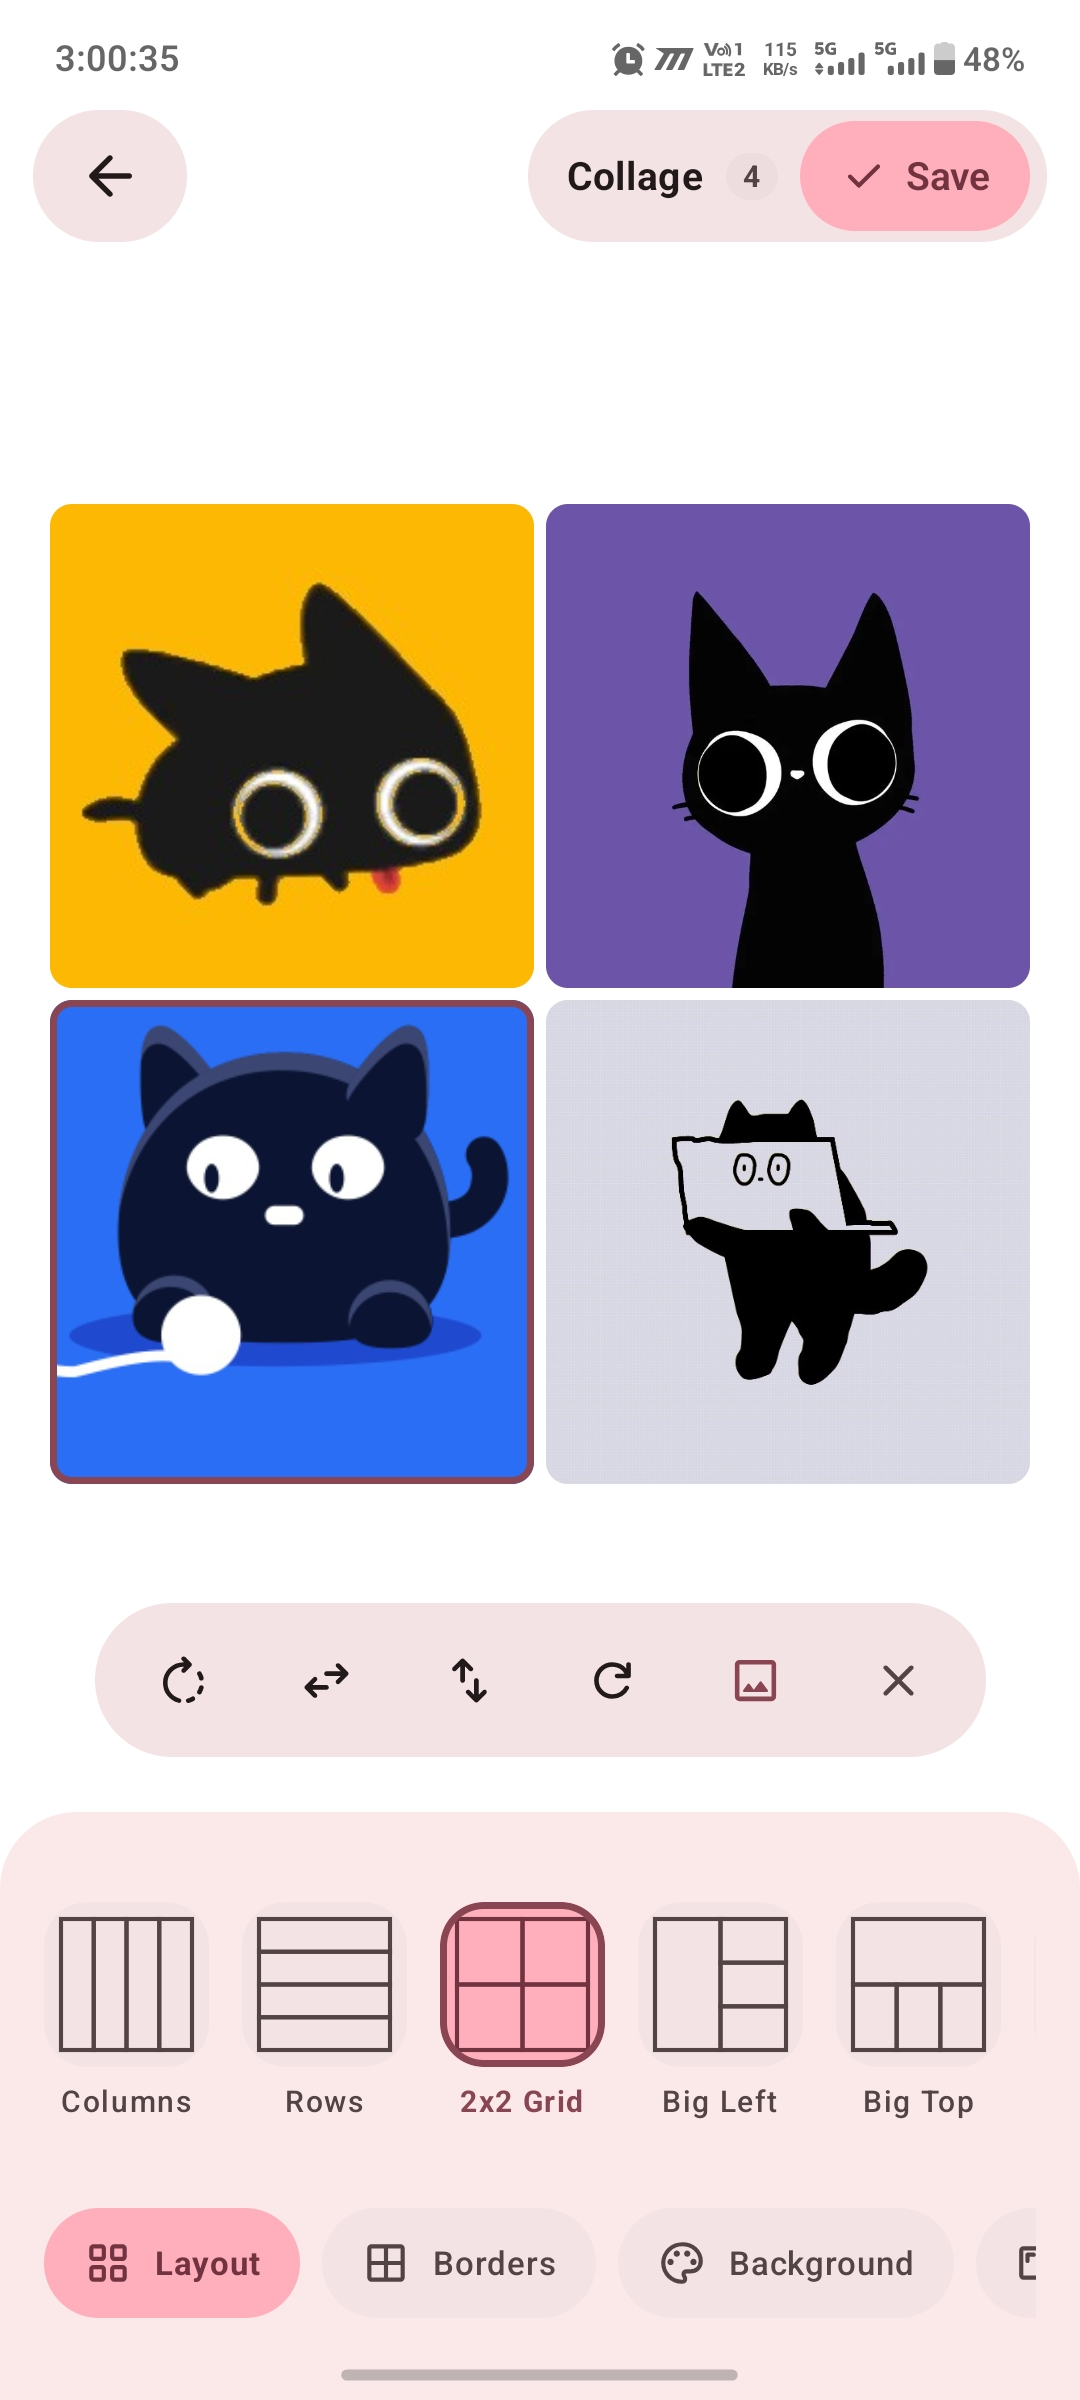
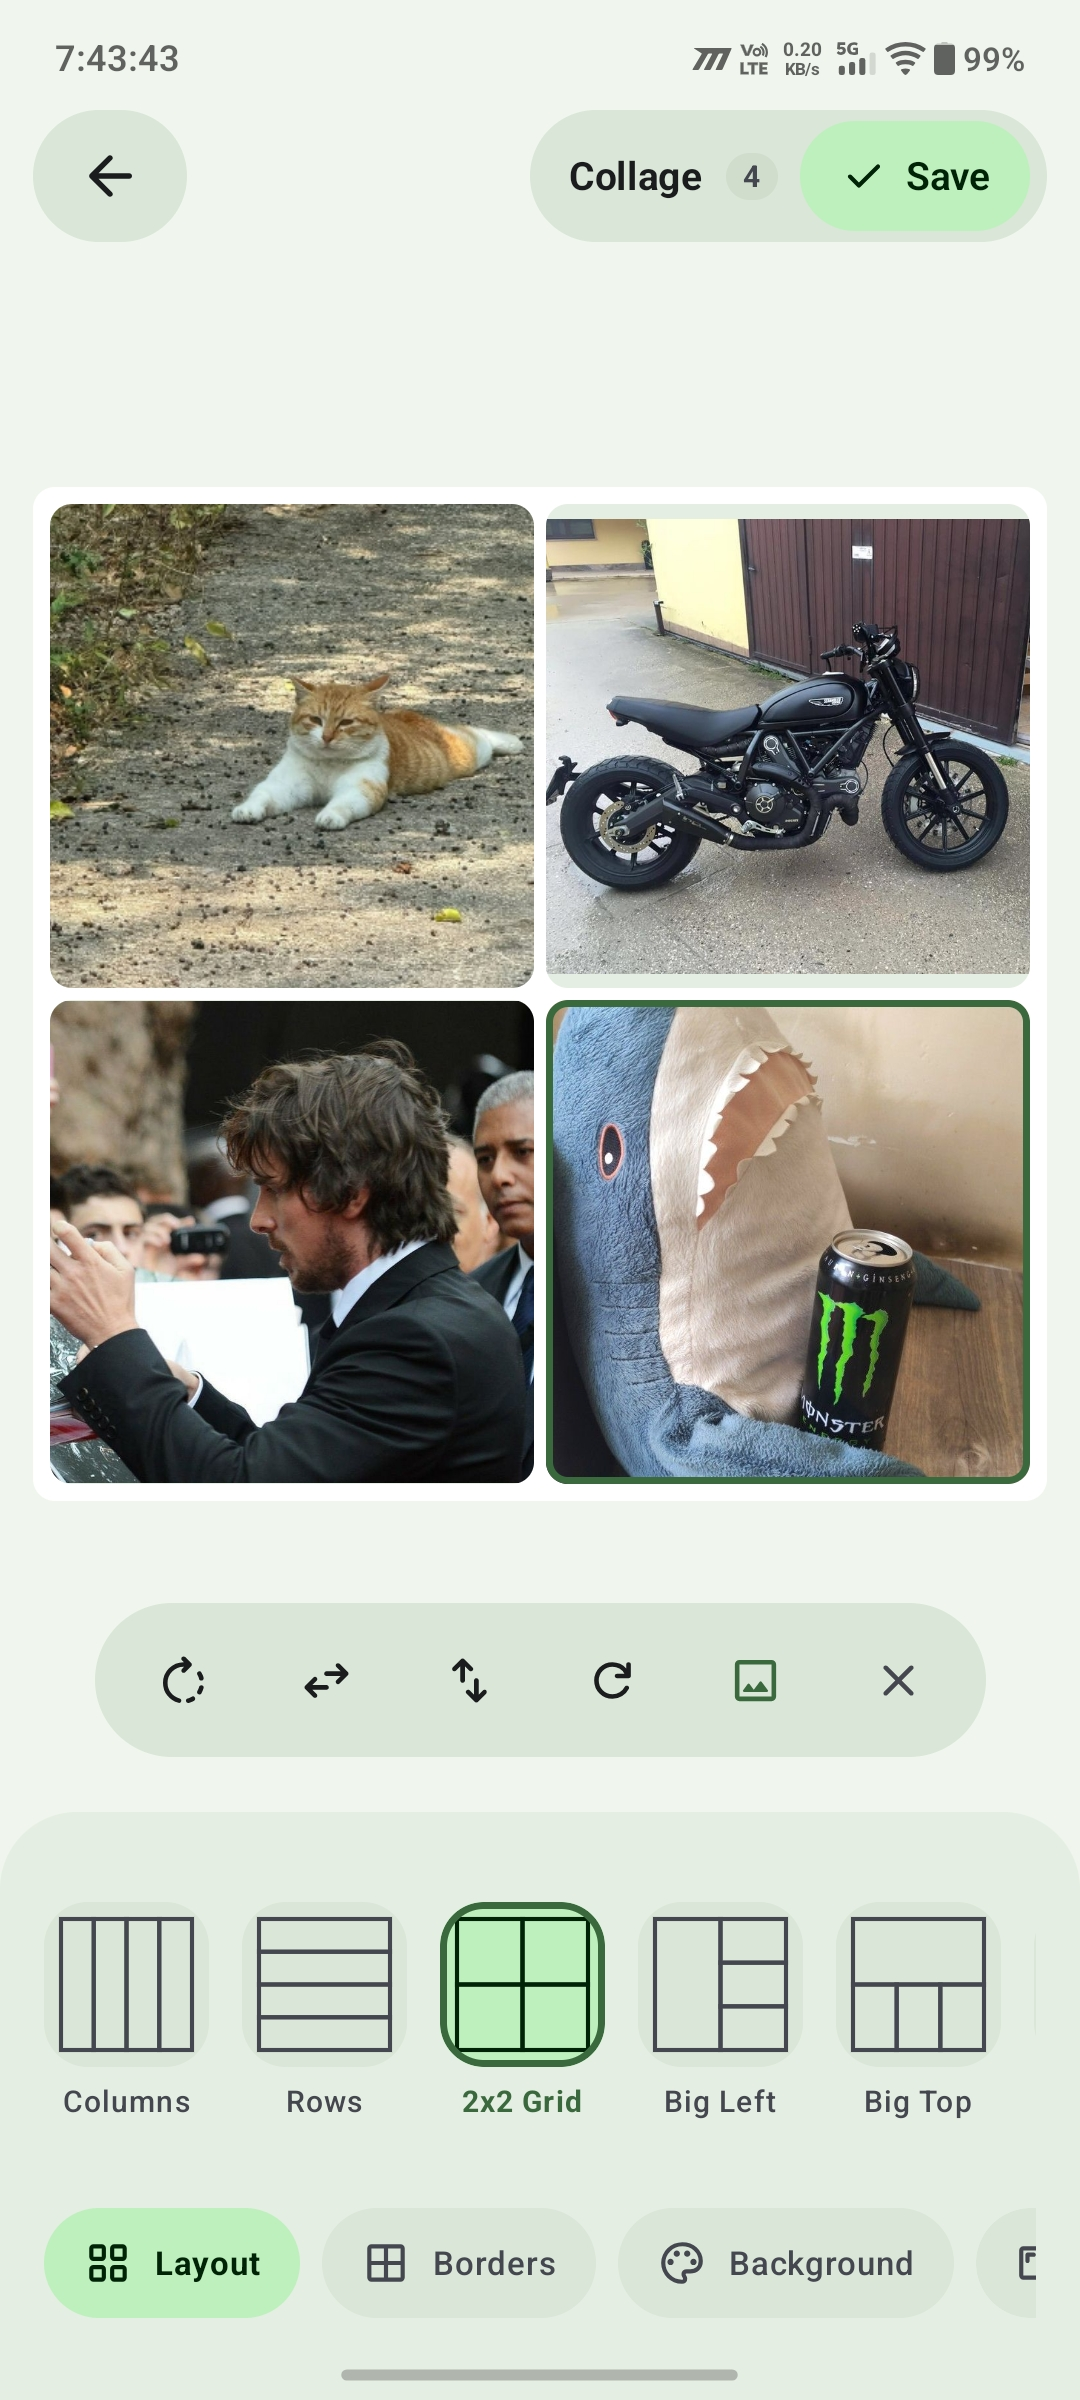
update app screenshots

diff --git a/README.md b/README.md
@@ -34,11 +34,11 @@
 
 | Home | Albums | Viewer | Video |
 |:---:|:---:|:---:|:---:|
-| <img src="screenshots/01-home-screen.jpg" width="180" /> | <img src="screenshots/02-album-screen.jpg" width="180" /> | <img src="screenshots/03-image-viewer.jpg" width="180" /> | <img src="screenshots/04-video-player.jpg" width="180" /> |
+| <img src="screenshots/01-home-screen.jpg?v=2" width="180" /> | <img src="screenshots/02-album-screen.jpg" width="180" /> | <img src="screenshots/03-image-viewer.jpg" width="180" /> | <img src="screenshots/04-video-player.jpg" width="180" /> |
 
 | Smart Search | Collage | Settings |
 |:---:|:---:|:---:|
-| <img src="screenshots/06-search.jpg?v=2" width="180" /> | <img src="screenshots/07-collage.jpg" width="180" /> | <img src="screenshots/08-settings.jpg?v=3" width="180" /> |
+| <img src="screenshots/06-search.jpg?v=2" width="180" /> | <img src="screenshots/07-collage.jpg?v=2" width="180" /> | <img src="screenshots/08-settings.jpg?v=3" width="180" /> |
 
 ---
 
